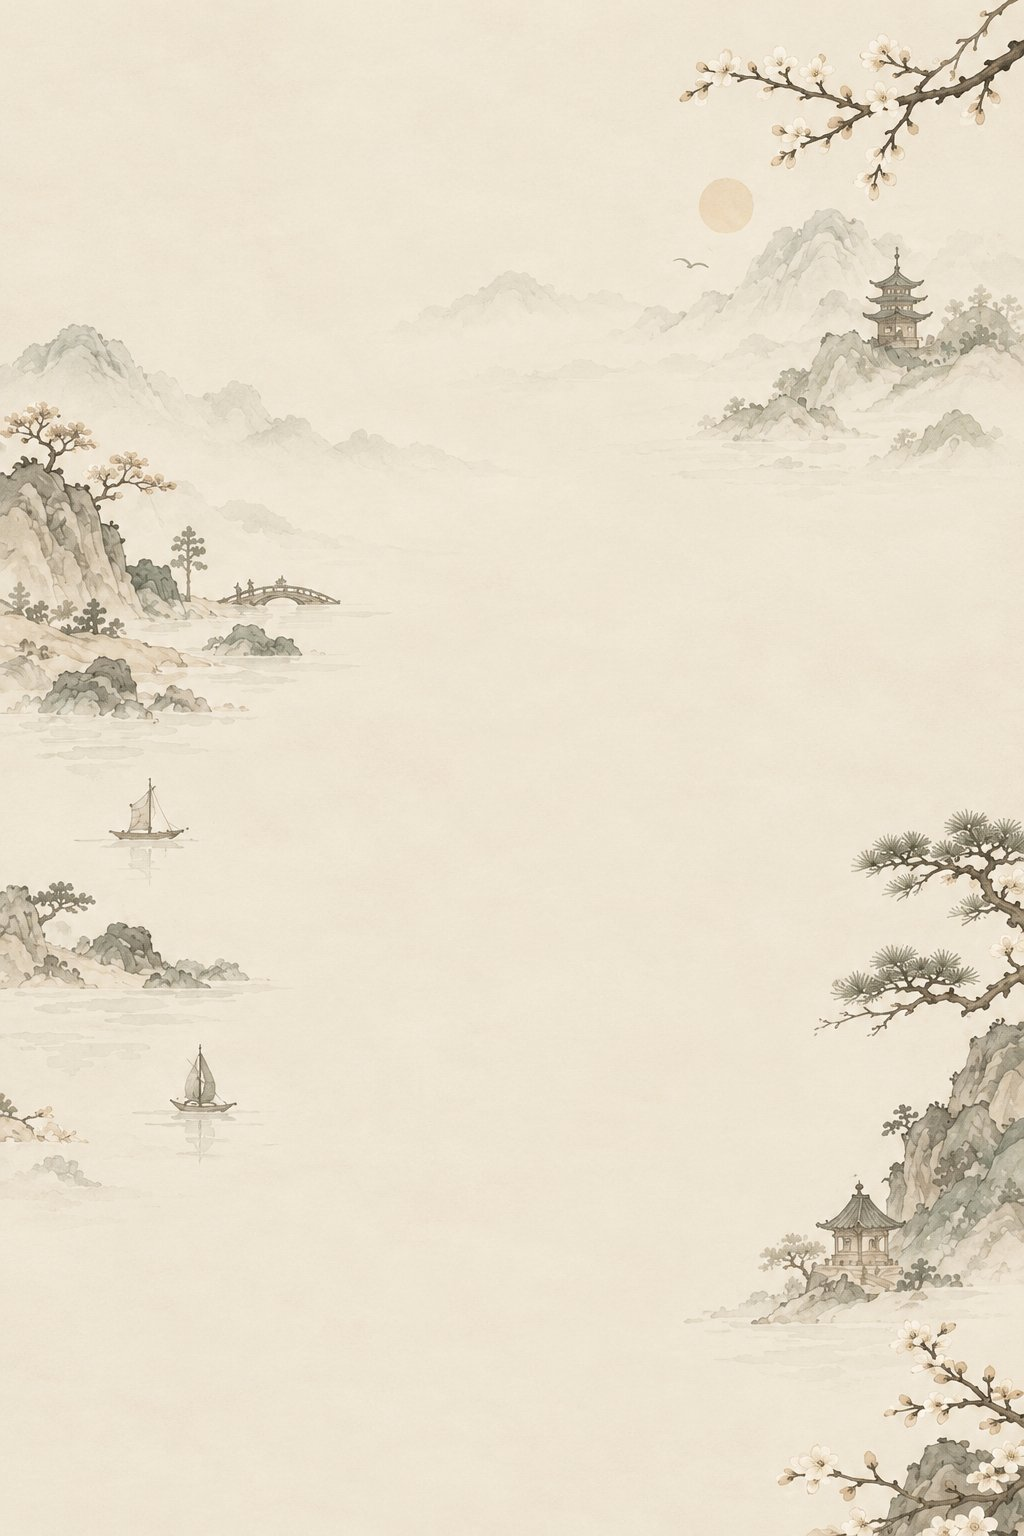
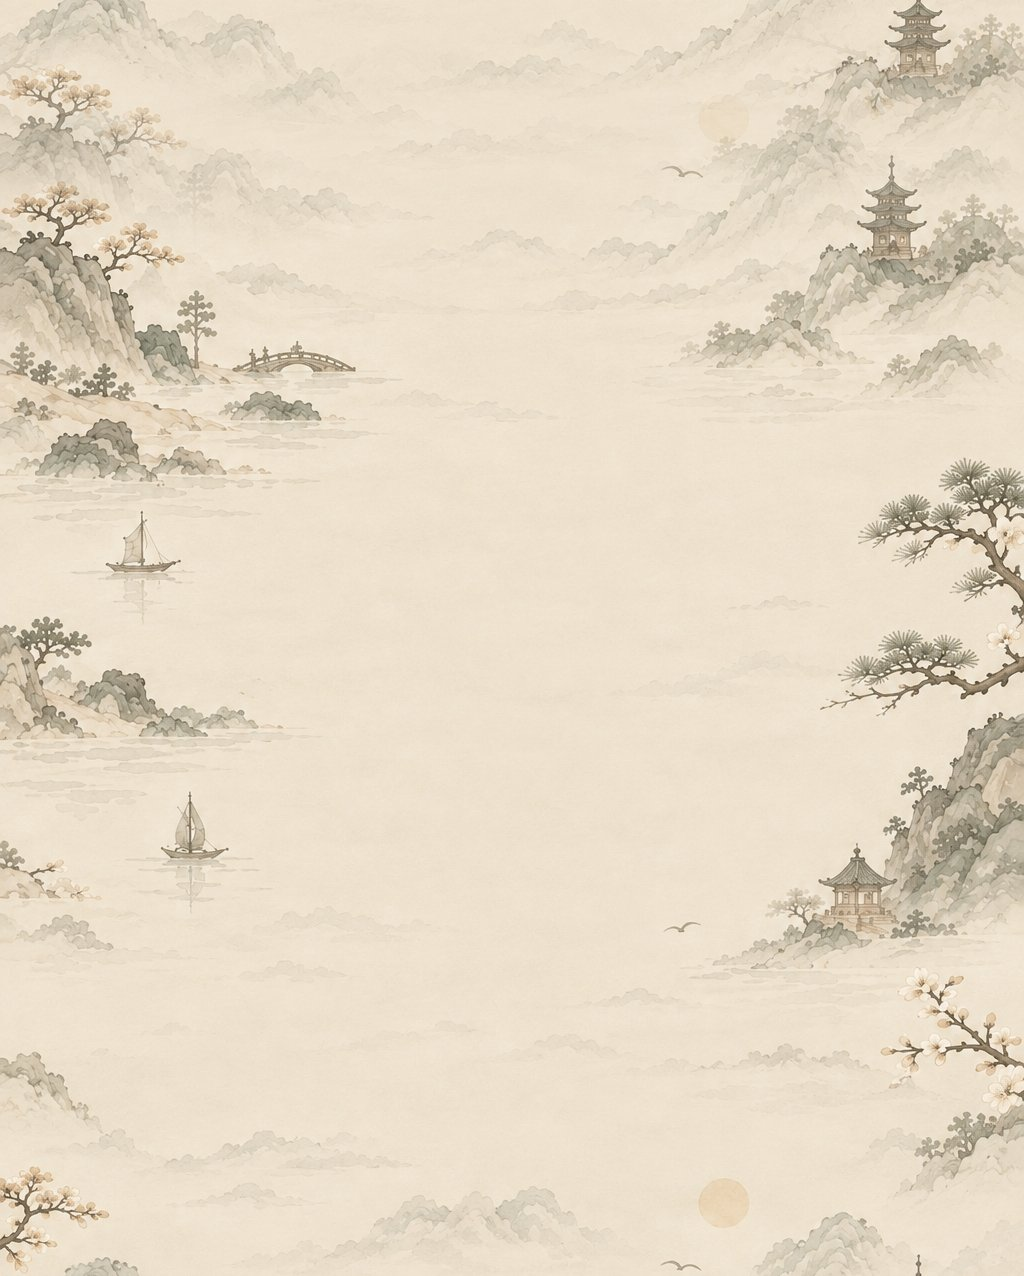
Path: seamless repeating landscape with parallax, solid label cards
The new background becomes a seamless tile (bottom blended into top) that
repeats down the map and scrolls at 0.6x the path speed on the native driver,
fitted to screen width instead of cropping. Node labels sit on opaque cards
and upcoming titles use the main text colour so they stay readable.

Claude-Session: https://claude.ai/code/session_01Jp7vxQq1j3x55QX2VuZsRY

diff --git a/src/app/(tabs)/games/path/index.tsx b/src/app/(tabs)/games/path/index.tsx
@@ -9,14 +9,15 @@
 //   - Внизу «Продолжить» (или «Начать») — сразу запускает нужную тренировку
 //     текущего этапа: сначала перевод, когда он пройден — письмо.
 //   - При открытии карта прокручена к текущему этапу.
-//   - Фон — пейзаж (assets/images/backgrounds/path.jpg). Он стоит на месте, а тропинка
-//     прокручивается поверх: рисунок по краям, середина пустая — там идёт тропинка.
+//   - Фон — повторяющийся пейзаж (ScrollingBackground): едет за прокруткой медленнее
+//     тропинки. Рисунок по краям, середина пустая — там идёт тропинка.
 
 import {
   PathNode,
   PATH_ROW_HEIGHT,
   pathOffset,
 } from "@/components/path/PathNode";
+import { ScrollingBackground } from "@/components/path/ScrollingBackground";
 import { Screen } from "@/components/layout/Screen";
 import { BackButton } from "@/components/ui/BackButton";
 import { Title } from "@/components/ui/Title";
@@ -28,10 +29,9 @@ import {
   type StageProgress,
 } from "@/utils/path/stages";
 import { useRouter } from "expo-router";
-import { useCallback, useMemo } from "react";
+import { useCallback, useMemo, useRef } from "react";
 import {
-  FlatList,
-  Image,
+  Animated,
   Pressable,
   Text,
   View,
@@ -93,6 +93,20 @@ export default function PathScreen() {
 
   const currentRow = rows.findIndex(
     (row) => row.type === "stage" && row.item.stage.index === currentIndex,
+  );
+  const initialIndex = Math.max(currentRow - 1, 0);
+
+  // Прокрутка для фона. Начинаем с того места, куда список откроется,
+  // иначе фон дёрнется при первой прокрутке
+  const scrollY = useRef(
+    new Animated.Value(layout[initialIndex]?.offset ?? 0),
+  ).current;
+  const onScroll = useMemo(
+    () =>
+      Animated.event([{ nativeEvent: { contentOffset: { y: scrollY } } }], {
+        useNativeDriver: true,
+      }),
+    [scrollY],
   );
 
   const open = useCallback(
@@ -165,12 +179,7 @@ export default function PathScreen() {
 
   return (
     <View className="flex-1 bg-background">
-      <Image
-        source={require("@/assets/images/backgrounds/path.jpg")}
-        resizeMode="cover"
-        style={{ position: "absolute", top: 0, left: 0, right: 0, bottom: 0 }}
-        accessibilityIgnoresInvertColors
-      />
+      <ScrollingBackground scrollY={scrollY} />
       <Screen>
         <View className="flex-row items-center justify-between">
           <BackButton href="/games" />
@@ -178,12 +187,14 @@ export default function PathScreen() {
           <View style={{ width: 28 }} />
         </View>
 
-        <FlatList
+        <Animated.FlatList
           data={rows}
+          onScroll={onScroll}
+          scrollEventThrottle={16}
           keyExtractor={(row) => row.key}
           renderItem={renderItem}
           getItemLayout={(_, index) => ({ ...layout[index], index })}
-          initialScrollIndex={Math.max(currentRow - 1, 0)}
+          initialScrollIndex={initialIndex}
           showsVerticalScrollIndicator={false}
           contentContainerStyle={{ paddingTop: 8, paddingBottom: BOTTOM_SPACE }}
           initialNumToRender={10}

diff --git a/src/components/path/ScrollingBackground.tsx b/src/components/path/ScrollingBackground.tsx
@@ -1,0 +1,67 @@
+// src/components/path/ScrollingBackground.tsx
+//
+// Повторяющийся фон-пейзаж под картой пути. Картинка — бесшовная плитка
+// (assets/images/backgrounds/path.jpg: низ плавно переходит в верх), она повторяется
+// столько раз, сколько нужно, чтобы закрыть экран, и едет вместе с прокруткой,
+// но медленнее (PARALLAX) — так кажется, что пейзаж дальше тропинки.
+// Сдвиг считается по модулю высоты плитки, поэтому плиток всегда несколько,
+// сколько бы ни был длинным путь. Всё на нативном драйвере — прокрутка не тормозит.
+
+import { useMemo } from "react";
+import { Animated, Image, View, useWindowDimensions } from "react-native";
+
+const TILE = require("@/assets/images/backgrounds/path.jpg");
+/** Размер плитки в пикселях (ширина × высота файла). */
+const TILE_WIDTH = 1024;
+const TILE_HEIGHT = 1276;
+
+/** Во сколько раз фон движется медленнее тропинки (1 — вместе с ней, 0 — стоит). */
+const PARALLAX = 0.6;
+
+interface ScrollingBackgroundProps {
+  /** Прокрутка списка (contentOffset.y). */
+  scrollY: Animated.Value;
+}
+
+export function ScrollingBackground({ scrollY }: ScrollingBackgroundProps) {
+  const { width, height } = useWindowDimensions();
+  const tileHeight = Math.round((width * TILE_HEIGHT) / TILE_WIDTH);
+  const count = Math.ceil(height / tileHeight) + 1;
+
+  const translateY = useMemo(
+    () =>
+      Animated.multiply(
+        Animated.modulo(
+          // Оттягивание за верх (отрицательная прокрутка) фон не двигает
+          scrollY.interpolate({
+            inputRange: [0, 1],
+            outputRange: [0, PARALLAX],
+            extrapolateLeft: "clamp",
+          }),
+          tileHeight,
+        ),
+        -1,
+      ),
+    [scrollY, tileHeight],
+  );
+
+  return (
+    <View
+      pointerEvents="none"
+      style={{ position: "absolute", top: 0, left: 0, right: 0, bottom: 0 }}
+      className="overflow-hidden bg-background"
+    >
+      <Animated.View style={{ transform: [{ translateY }] }}>
+        {Array.from({ length: count }, (_, i) => (
+          <Image
+            key={i}
+            source={TILE}
+            style={{ width, height: tileHeight }}
+            resizeMode="stretch"
+            accessibilityIgnoresInvertColors
+          />
+        ))}
+      </Animated.View>
+    </View>
+  );
+}

diff --git a/src/components/path/PathNode.tsx b/src/components/path/PathNode.tsx
@@ -220,20 +220,20 @@ export const PathNode = memo(function PathNode({
           style={{ width: labelWidth, marginHorizontal: LABEL_GAP }}
           className={labelOnRight ? "items-start" : "items-end"}
         >
-          {/* Полупрозрачная подложка: подпись читается и поверх рисунка фона */}
+          {/* Карточка подписи: непрозрачная, чтобы текст читался поверх рисунка фона */}
           <View
-            className={`rounded-xl bg-background/85 px-2 py-1 ${
+            className={`rounded-2xl border border-border bg-surface px-3 py-1.5 ${
               labelOnRight ? "items-start" : "items-end"
             }`}
           >
-            <Text
+          <Text
               numberOfLines={2}
               className={`${labelOnRight ? "text-left" : "text-right"} ${
                 state === "current"
                   ? "font-nunitoBold text-lead text-text"
                   : state === "passed"
                     ? "font-nunitoBold text-body text-text"
-                    : "font-nunito text-body text-textSecondary"
+                    : "font-nunito text-body text-text"
               }`}
             >
               {title}

diff --git a/docs/path.md b/docs/path.md
@@ -13,6 +13,7 @@
 | `src/app/(tabs)/games/path/stage.tsx` | экран этапа: дорожки с «Тренировать», «Продолжить», сетка слов с двумя строками точек |
 | `src/components/path/PathNode.tsx` | точка на карте: одно кольцо общего прогресса, название и навыки иконками (книга — перевод, карандаш — письмо), кусок тропинки, пульс, галочка «пройден» / печать «освоен» |
 | `src/components/path/PathWordGrid.tsx` | сетка слов этапа |
+| `src/components/path/ScrollingBackground.tsx` | повторяющийся фон-пейзаж с параллаксом (плитка `assets/images/backgrounds/path.jpg`, низ бесшовно переходит в верх) |
 | `src/app/(tabs)/games/writing/path.tsx` | тренировка письма по этапу |
 
 Тренировка перевода этапа — обычный экран карточек с `setId = "path:1:0"`
